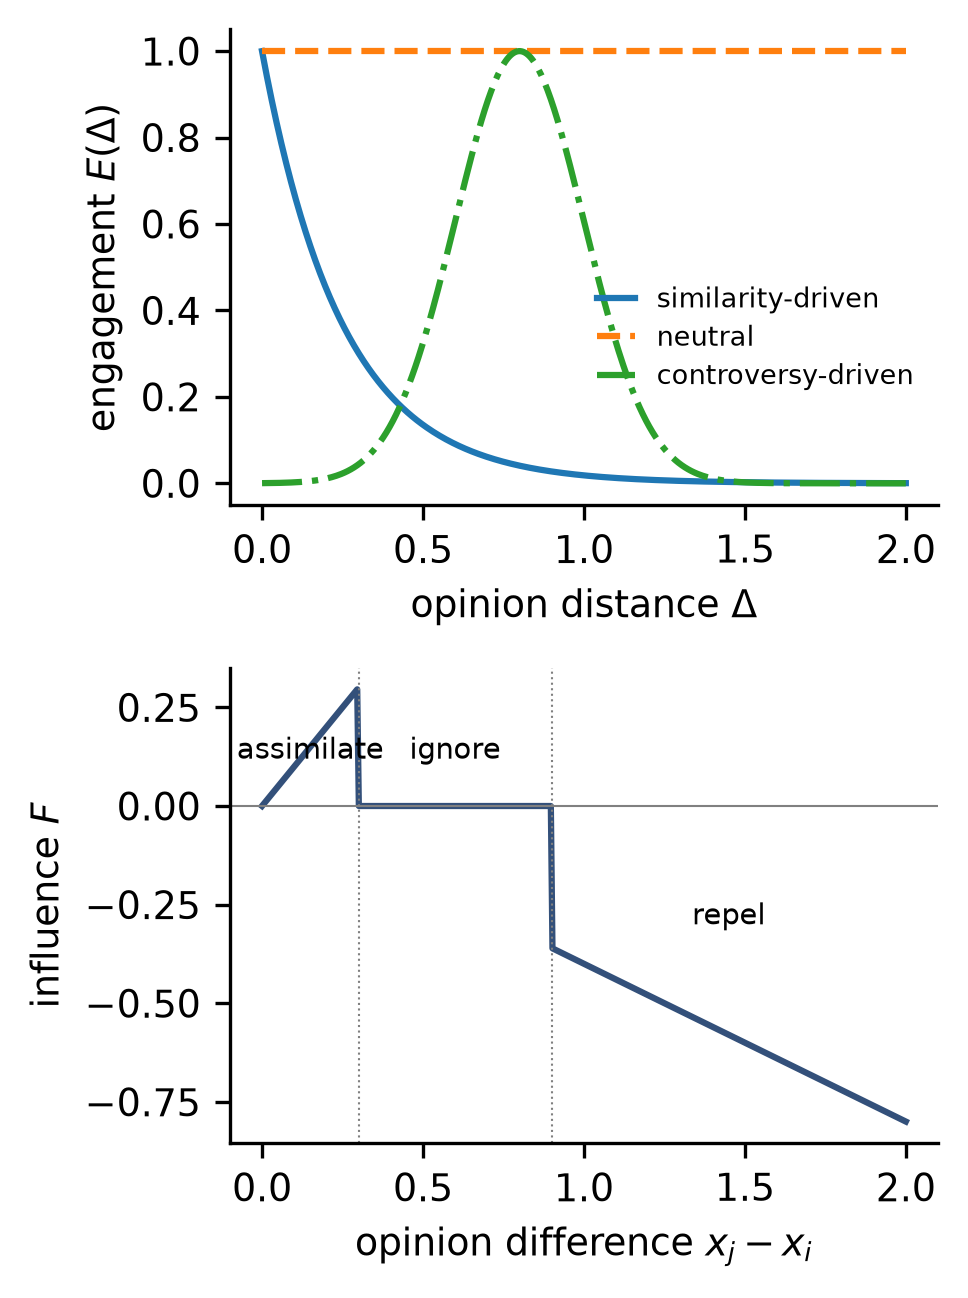
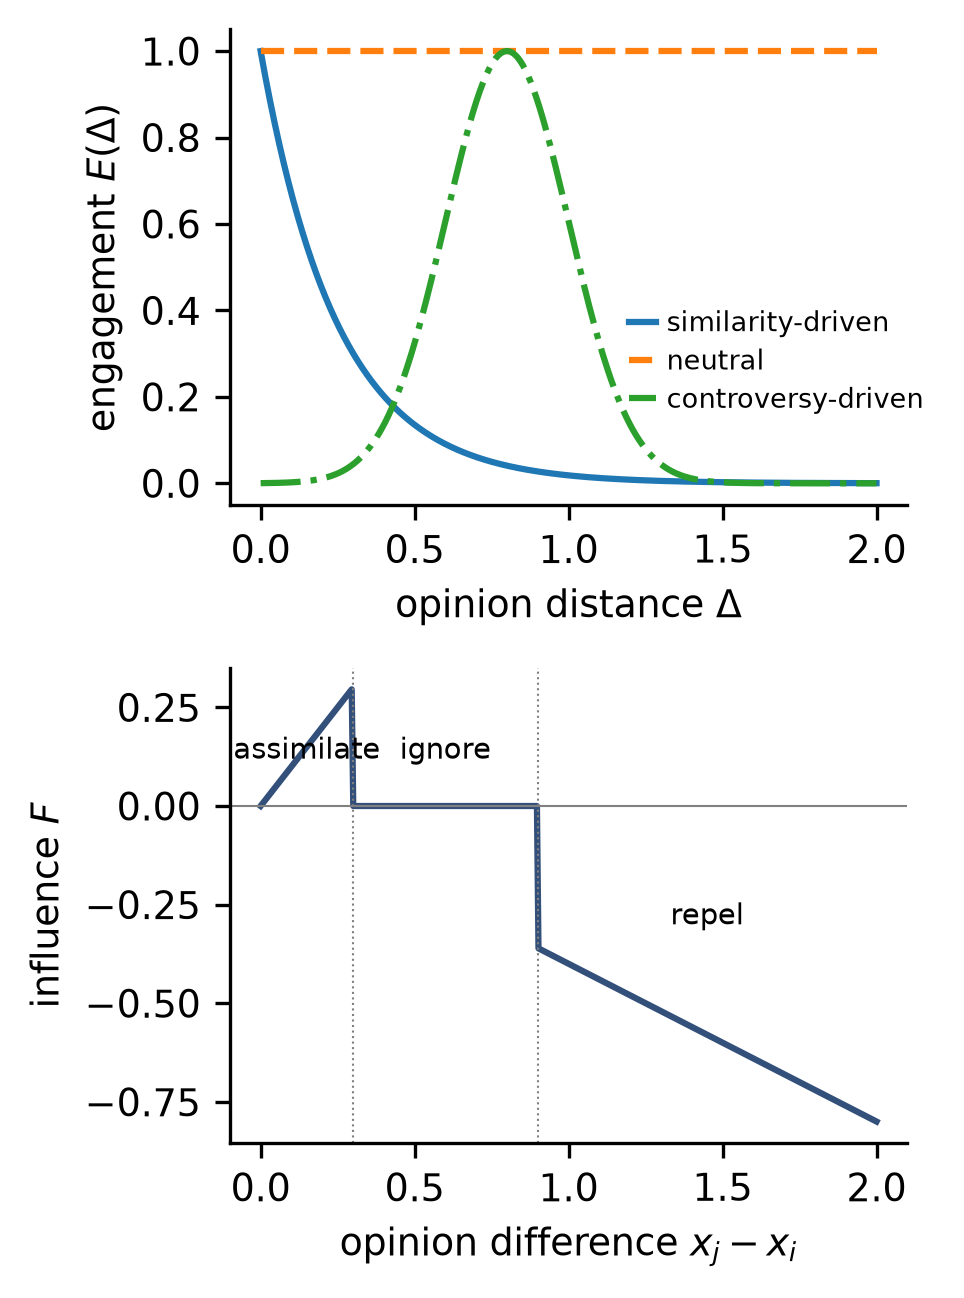
Nudge kernel-figure legend right, clear of the controversy curve

diff --git a/scripts/exp4_engagement.py b/scripts/exp4_engagement.py
@@ -50,10 +50,11 @@ def main():
         axes[0].plot(d, engagement_kernel(d, pk), style, label=LABELS[eng])
     axes[0].set_xlabel("opinion distance $\\Delta$")
     axes[0].set_ylabel("engagement $E(\\Delta)$")
-    # the lower-right quadrant is the only region clear of all three curves
+    # lower-right corner, tight against the right spine and with short
+    # handles, so the legend clears the controversy curve's right flank
     axes[0].legend(frameon=False, fontsize=6.5, loc="center right",
-                   bbox_to_anchor=(1.0, 0.35), handlelength=1.4,
-                   labelspacing=0.4)
+                   bbox_to_anchor=(1.04, 0.30), handlelength=1.0,
+                   handletextpad=0.4, labelspacing=0.4, borderaxespad=0.0)
     axes[1].plot(d, influence_function(d, p), color="#33507a")
     axes[1].axhline(0, color="gray", lw=0.5)
     axes[1].axvline(p.eps1, color="gray", lw=0.5, ls=":")
